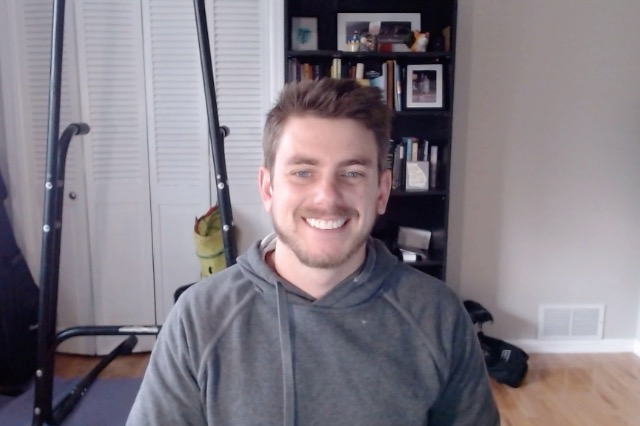
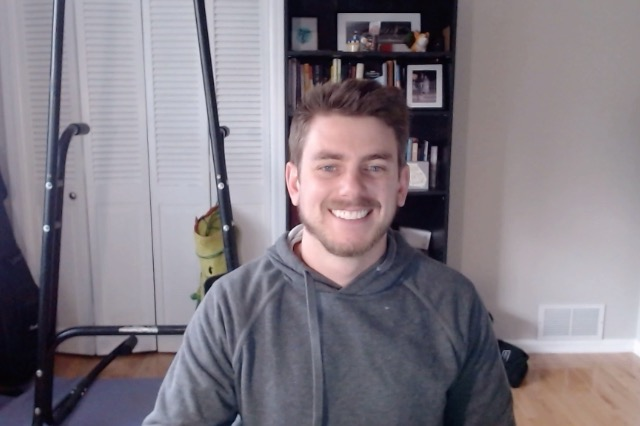
Adding images through the day

Changed region(s): [[0.1875, 0.1831, 0.8125, 1.0], [0.5938, 0.8239, 0.625, 0.8545]]

diff --git a/README.md b/README.md
@@ -1,1 +1,45 @@
 # Slack Stop Motion
+
+12 images
+
+time frames:
+
+"out of office" - 17:00 - 08:00 - image-11.jpg
+
+"in office" - 07:00 - 17:30 happens every 30 minutes
+
+01:00 - image-11
+02:00 - image-11
+03:00 - image-11
+04:00 - image-11
+05:00 - image-11
+06:00 - image-11
+07:00 - image-10
+07:30 - image-9
+08:00 - image-8
+08:30 - image-7
+09:00 - image-6
+09:30 - image-5
+10:00 - image-4
+10:30 - image-3
+11:00 - image-2
+11:30 - image-1
+12:00 - image-0
+12:30 - image-1
+13:00 - image-2
+13:30 - image-3
+14:00 - image-4
+14:30 - image-5
+15:00 - image-6
+15:30 - image-7
+16:00 - image-8
+16:30 - image-9
+17:00 - image-10
+17:30 - image-11
+18:00 - image-11
+19:00 - image-11
+20:00 - image-11
+21:00 - image-11
+22:00 - image-11
+23:00 - image-11
+24:00 - image-11
